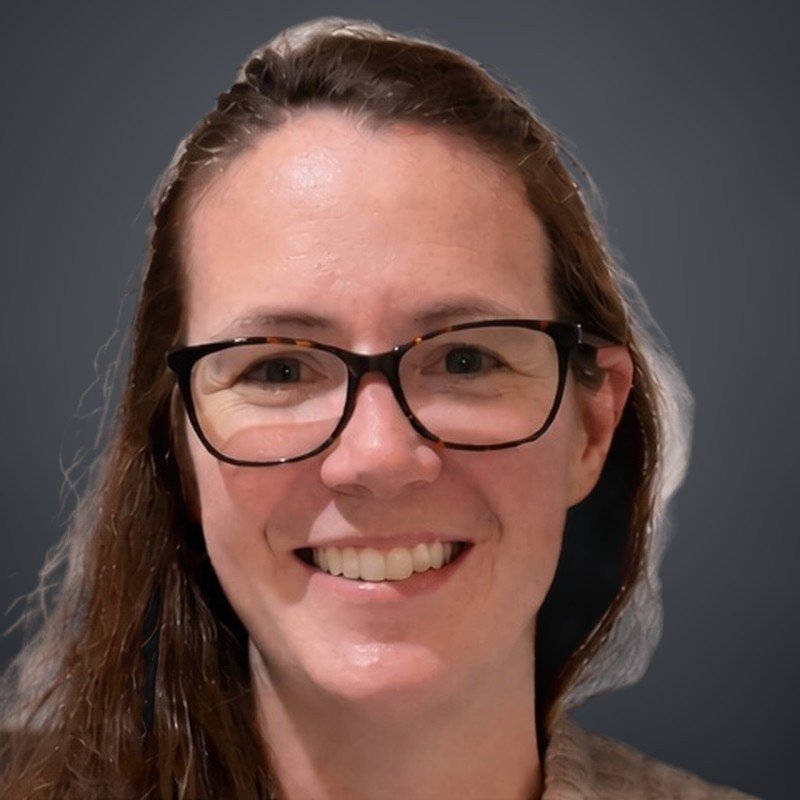
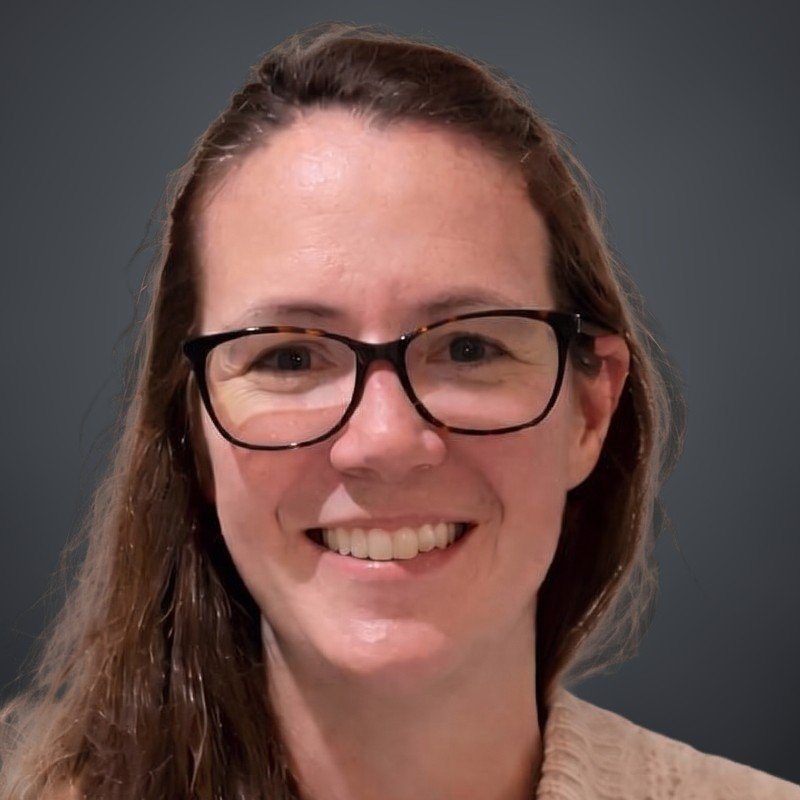
About v1.26: Sarah Booth's photo from the cleaner background removal
Claude-Session: https://claude.ai/code/session_012BtyR2i9F3thygBCepPExM

diff --git a/README.md b/README.md
@@ -20,7 +20,7 @@ Versions: drafts are v0.x. The approved version is v1.0. Amendments after approv
 | For patients | `/for-patients` | v1.12 | 15 Nov 2026 | `for-patients/index.html` | `YYYYMMDD-hub-for-patients.html`, saved nightly |
 | For professionals | `/for-professionals` | v1.13 | 15 Nov 2026 | `for-professionals/index.html` | `YYYYMMDD-hub-for-professionals.html`, saved nightly |
 | virtual Grand Rounds | `/virtual-grand-rounds` | v1.10 | 15 Nov 2026 | `virtual-grand-rounds/index.html` | `YYYYMMDD-hub-virtual-grand-rounds.html`, saved nightly |
-| About | `/about` | v1.25 | 20 Nov 2026 | `about/index.html` | `YYYYMMDD-hub-about.html`, saved nightly |
+| About | `/about` | v1.26 | 20 Nov 2026 | `about/index.html` | `YYYYMMDD-hub-about.html`, saved nightly |
 | Contact | `/contact-us` | v1.6 | 15 Nov 2026 | `contact-us/index.html` | `YYYYMMDD-contact.html`, saved nightly |
 | Personalised care | `/personalised-care` | v1.8 | 15 Nov 2026 | `personalised-care/index.html` | not yet saved to Drive (see "Patient guides") |
 | Site map (planning document, not a web page) | none | agreed | 25 Oct 2026 | none | `20261025-sitemap.html` |
@@ -43,6 +43,7 @@ These four, and the approved Personalised care page, use one shared design, `_la
 
 ### Amendment history
 
+- **About v1.26, 20 Nov**: Sarah Booth's photo replaced at Professor Lim's request with a version whose background he had removed in Google Gemini (flat dark grey), which leaves less glow around her hair than the cut-out from her cream-wall photo. Cropped like the rest of the team and placed on the same shaded charcoal backdrop so the set matches.
 - **About v1.25, 20 Nov**: Sarah Booth's photo added to My team (`assets/team/sarah-booth.jpg`), cropped like the rest of the team and placed on the same charcoal studio backdrop. Her photo was taken against a cream wall, so the pale fringe left around her hair was removed (wall colour taken out of the edge pixels); she is otherwise unchanged. Only Michael Evans's photo is still needed.
 - **About v1.24, 18 Nov**: all four team photos (Maria, Christopher, Abigail, Paulo) now share one charcoal studio backdrop, chosen by Professor Lim on "Team photos: backdrop mock-up v0.1" (claude.ai artifact). Each person was cut out of their photo and placed on the same backdrop (soft charcoal, lighter behind the head); faces, hair, clothing and expressions are unchanged. Stray green from the trees was removed from the edges of Maria's hair. Same file names. Sarah's and Michael's photos get the same backdrop when they arrive.
 - **About v1.23, 18 Nov**: Maria Leung's photo replaced with a new headshot Professor Lim supplied (outdoors, navy top), cropped to 800 by 800 with the same framing as the rest of the team, no other change. Same file name, `assets/team/maria-leung.jpg`.
